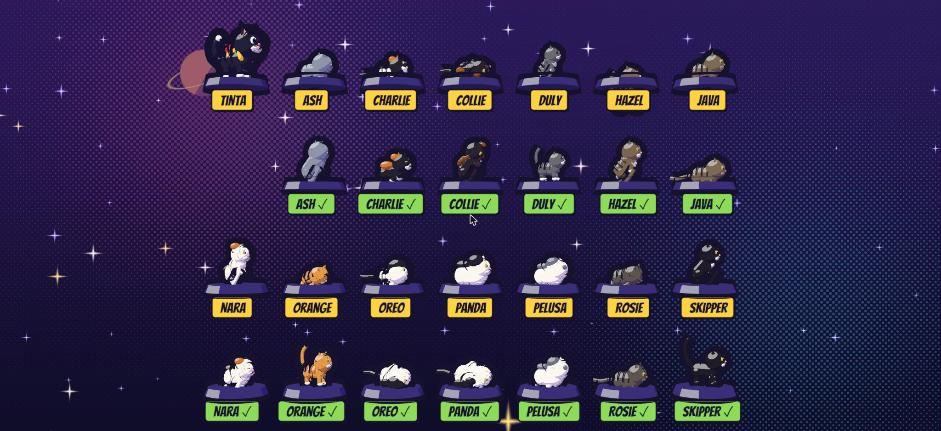
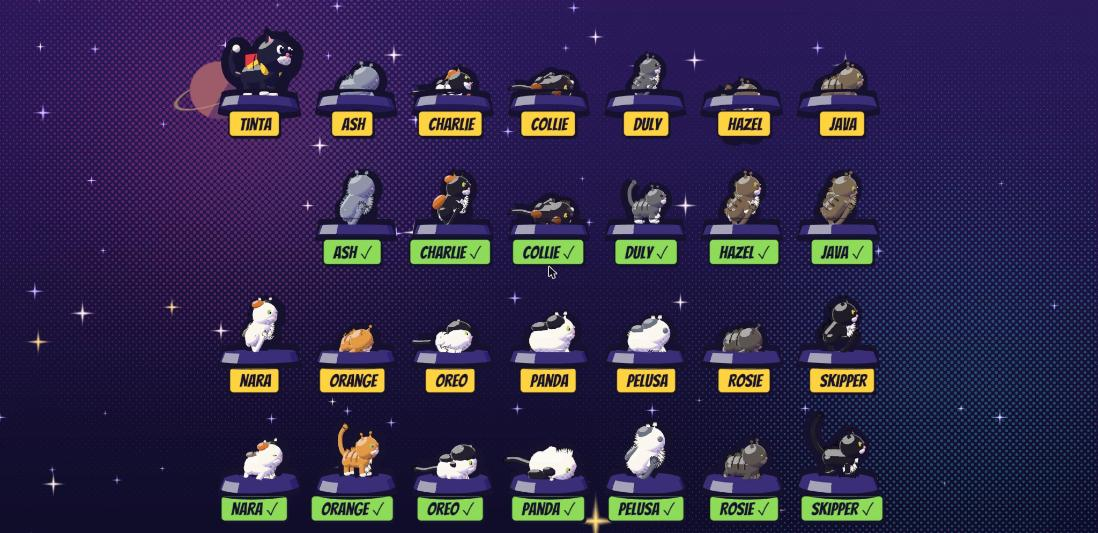
Cats: silhouette-only ink lines and fur tufts
- Outline hulls skip surface details and are pushed back from the camera, so crossings between
  parts no longer draw inner lines (cats and hero); irises keep a thin feature line
- Fur: soft ramp, rim light in the coat colour, jagged alpha-tested tuft cards on the silhouette
  (about 20, 30 for long-haired cats, half on the low preset)
- Docs and review page updated; hop selftest still passes

diff --git a/src/space/cats.js b/src/space/cats.js
@@ -1,5 +1,13 @@
 import * as THREE from 'three';
-import { comicMaterial as M, addOutlines } from './comic.js';
+import { comicMaterial, addOutlines } from './comic.js';
+
+// Fur materials: a short soft ramp and a rim light a little lighter than the coat.
+const M = (color) => comicMaterial(color, { soft: 0.14, rim: rimOf(color) });
+function rimOf(hex) {
+  const c = new THREE.Color(hex);
+  return '#' + c.lerp(new THREE.Color('#FFF6E5'), 0.55).getHexString();
+}
+const noLine = (mesh) => ((mesh.userData.outline = 0), mesh);
 
 // The 13 secret cats, modelled on Sebastian's own cats (likeness from coat, markings, eyes and size;
 // shapes stay simple and comic). His photos give only the looks; the motion follows real cat body
@@ -93,6 +101,94 @@ const TAILS = {
   hang: [[0, 0], [-0.3, 0.1], [-0.55, 0.05], [-0.75, -0.1]],
 };
 
+// --- Fur tufts ---------------------------------------------------------------------------------
+// Small alpha-tested cards with a jagged, clumped tuft drawn in white and tinted per coat,
+// placed on each part's side-view edge so the spikes break the silhouette.
+let tuftTexture = null;
+function getTuftTexture() {
+  if (tuftTexture) return tuftTexture;
+  const c = document.createElement('canvas');
+  c.width = c.height = 64;
+  const g = c.getContext('2d');
+  g.beginPath();
+  // A fan of 5 spikes rising from a rounded base.
+  const spikes = [[8, 30], [18, 6], [26, 26], [34, 2], [40, 24], [50, 8], [56, 30]];
+  g.moveTo(4, 60);
+  g.quadraticCurveTo(2, 40, spikes[0][0], spikes[0][1]);
+  for (let i = 1; i < spikes.length; i++) g.lineTo(spikes[i][0], spikes[i][1]);
+  g.quadraticCurveTo(62, 40, 60, 60);
+  g.closePath();
+  g.fillStyle = '#FFFFFF';
+  g.fill();
+  g.lineWidth = 4;
+  g.strokeStyle = '#16122E';
+  g.stroke();
+  tuftTexture = new THREE.CanvasTexture(c);
+  tuftTexture.colorSpace = THREE.SRGBColorSpace;
+  return tuftTexture;
+}
+const tuftMats = new Map();
+function tuftMat(hex) {
+  if (!tuftMats.has(hex)) {
+    const m = new THREE.MeshBasicMaterial({ map: getTuftTexture(), color: hex, alphaTest: 0.5, side: THREE.DoubleSide });
+    m.userData.noOutline = true;
+    tuftMats.set(hex, m);
+  }
+  return tuftMats.get(hex);
+}
+const tuftGeo = new THREE.PlaneGeometry(1, 1).translate(0, 0.35, 0); // base near the bottom edge
+
+// One tuft on the edge of a round part seen from the side: centre (cx, cy), radius r,
+// at `deg` degrees around it, spikes pointing outward. Cards sit in the part's z = 0 plane,
+// so the inner half hides inside the body and the spikes break the silhouette.
+function edgeTuft(parent, hex, cx, cy, r, deg, size, z = 0) {
+  const a = (deg * Math.PI) / 180;
+  const m = new THREE.Mesh(tuftGeo, tuftMat(hex));
+  m.position.set(cx + Math.cos(a) * r * 0.9, cy + Math.sin(a) * r * 0.9, z);
+  m.rotation.z = a - Math.PI / 2;
+  m.scale.set(size, size, 1);
+  m.userData.outline = 0;
+  parent.add(m);
+  return m;
+}
+
+// 20-40 tufts on the silhouette: cheek ruffs, chest bib, back and rump, ear tips, tail tip.
+// Long-haired cats (fluffy > 1.05) get more and bigger tufts; the low preset gets half.
+function addTufts({ spec, torso, head, tails, ears }) {
+  const long = (spec.fluffy ?? 1) > 1.05;
+  const keep = spec.low ? 2 : 1; // keep every n-th tuft
+  const big = long ? 1.3 : 1;
+  const fur = spec.fur;
+  const bib = spec.belly;
+  const s = 0.24 * big;
+  const headR = 0.33 * (spec.fluffy ?? 1);
+  const bodyW = (spec.chunky ? 1.15 : spec.slim ? 0.88 : 1) * (spec.fluffy ?? 1);
+  let i = 0;
+  const add = (...args) => (i++ % keep === 0 ? edgeTuft(...args) : null);
+  // Cheek ruff: lower back of the head, plus the jowl under the chin.
+  const cheek = long ? [195, 212, 229, 246, 263, 282] : [205, 228, 252, 276];
+  for (const d of cheek) add(head, d > 240 ? bib : fur, 0, 0, headR, d, s);
+  // Back of the head.
+  for (const d of long ? [150, 168] : [160]) add(head, fur, 0, 0, headR, d, s * 0.8);
+  // Chest bib (front-bottom of the chest sphere).
+  const chest = long ? [250, 268, 286, 304, 322] : [262, 290, 318];
+  for (const d of chest) add(torso, bib, 0.55, -0.06, 0.22 * bodyW, d, s * 0.95);
+  // Back ridge and rump (top and back of the trunk).
+  const back = long ? [70, 90, 110, 130, 150, 170] : [80, 105, 135, 160];
+  for (const [k, d] of back.entries()) add(torso, fur, 0.18 + (k % 2) * 0.08, 0, 0.27 * bodyW + 0.02, d, s * 0.8);
+  // Ear tips.
+  for (const ear of ears) add(ear, fur, 0, 0.06, 0.07, 90, s * 0.45);
+  // Tail tip on every tail shape, pointing along the tail.
+  const tipHex = spec.tail ?? fur;
+  for (const g of Object.values(tails)) {
+    const path = g.children[0].geometry.parameters.path;
+    const end = path.getPoint(1);
+    const tan = path.getTangent(1);
+    const deg = (Math.atan2(tan.y, tan.x) * 180) / Math.PI;
+    for (let k = 0; k < (long ? 3 : 2); k++) add(g, tipHex, end.x, end.y, 0.02, deg + (k - 0.5) * 40, s * 0.7, end.z);
+  }
+}
+
 export function makeSecretCat(spec) {
   const fur = M(spec.fur);
   const belly = M(spec.belly);
@@ -112,22 +208,22 @@ export function makeSecretCat(spec) {
   const trunk = capsule(0.27 * bodyW, 0.42, fur);
   trunk.rotation.z = Math.PI / 2;
   torso.add(put(trunk, 0.32, 0, 0, 1, 1, bodyW > 1 ? 1.1 : 1));
-  torso.add(put(sphere(0.24 * bodyW, belly), 0.55, -0.06, 0, 0.8, 0.9, 0.95)); // chest
+  torso.add(noLine(put(sphere(0.24 * bodyW, belly), 0.55, -0.06, 0, 0.8, 0.9, 0.95))); // chest
   if (spec.stripes) {
     for (const x of [0.12, 0.3, 0.48]) {
       const band = new THREE.Mesh(new THREE.TorusGeometry(0.27 * bodyW + 0.005, 0.03, 5, 16, Math.PI * 1.1), M(spec.stripes));
       band.rotation.y = Math.PI / 2;
       band.rotation.x = -Math.PI * 0.05;
-      torso.add(put(band, x, 0, 0));
+      torso.add(noLine(put(band, x, 0, 0)));
     }
   }
   for (const [part, x, y, z, r, c, sy] of spec.patches ?? []) {
     if (part !== 'body') continue;
-    torso.add(put(sphere(r, M(c), 10, 8), 0.32 + x, y * bodyW * 0.9, z * bodyW, 1.2, sy, 1));
+    torso.add(noLine(put(sphere(r, M(c), 10, 8), 0.32 + x, y * bodyW * 0.9, z * bodyW, 1.2, sy, 1)));
   }
 
   // Haunches: hidden inside the trunk in most poses, they round out the rump when sitting.
-  for (const z of [-0.13, 0.13]) torso.add(put(sphere(0.19 * bodyW, fur, 10, 8), 0.1, -0.06, z));
+  for (const z of [-0.13, 0.13]) torso.add(noLine(put(sphere(0.19 * bodyW, fur, 10, 8), 0.1, -0.06, z)));
 
   // Legs: shoulder/hip pivots inside the torso so they follow it.
   const leg = (x, z, front) => {
@@ -165,20 +261,23 @@ export function makeSecretCat(spec) {
   head.add(sphere(0.33 * fluffy, fur, 18, 12));
   for (const [part, x, y, z, r, c, sy] of spec.patches ?? []) {
     if (part !== 'head') continue;
-    head.add(put(sphere(r, M(c), 10, 8), x, y * 0.9, z, 1, sy, 1));
+    head.add(noLine(put(sphere(r, M(c), 10, 8), x, y * 0.9, z, 1, sy, 1)));
   }
   head.add(put(sphere(0.17, belly, 12, 8), 0.2, -0.1, 0, 0.8, 0.65, 1.2)); // muzzle
-  if (spec.chin) head.add(put(sphere(0.07, M(spec.chin), 8, 6), 0.27, -0.18, 0));
-  if (spec.blaze) head.add(put(sphere(0.07, belly, 8, 6), 0.27, 0.06, 0, 0.5, 1.8, 0.8)); // white stripe up the nose
-  head.add(put(sphere(0.045, M(spec.nose), 8, 6), 0.33, -0.03, 0));
+  if (spec.chin) head.add(noLine(put(sphere(0.07, M(spec.chin), 8, 6), 0.27, -0.18, 0)));
+  if (spec.blaze) head.add(noLine(put(sphere(0.07, belly, 8, 6), 0.27, 0.06, 0, 0.5, 1.8, 0.8))); // white stripe up the nose
+  head.add(noLine(put(sphere(0.045, M(spec.nose), 8, 6), 0.33, -0.03, 0)));
   const eyes = [];
   const ears = [];
   for (const z of [-0.12, 0.12]) {
     const eye = new THREE.Group();
     eye.position.set(0.25, 0.06, z);
-    eye.add(put(sphere(0.085, M(spec.eyes), 10, 8), 0, 0, 0, 0.55, 1, 1));
-    eye.add(put(sphere(0.06, M('#16122E'), 8, 6), 0.03, 0, 0, 0.5, 1, 0.35)); // vertical slit
-    eye.add(put(sphere(0.018, M('#FFFFFF'), 6, 4), 0.05, 0.035, 0));
+    // Eyes are a hand-picked feature line: a thin hull around the iris only.
+    const iris = put(sphere(0.085, M(spec.eyes), 10, 8), 0, 0, 0, 0.55, 1, 1);
+    iris.userData.outline = 0.5;
+    eye.add(iris);
+    eye.add(noLine(put(sphere(0.06, M('#16122E'), 8, 6), 0.03, 0, 0, 0.5, 1, 0.35))); // vertical slit
+    eye.add(noLine(put(sphere(0.018, M('#FFFFFF'), 6, 4), 0.05, 0.035, 0)));
     head.add(eye);
     eyes.push(eye);
     const ear = new THREE.Mesh(new THREE.ConeGeometry(0.12, 0.24, 4), z > 0 ? earMat(spec, 'L') : earMat(spec, 'R'));
@@ -188,7 +287,10 @@ export function makeSecretCat(spec) {
     ears.push(ear);
   }
 
-  addOutlines(root, 1.1);
+  addTufts({ spec, torso, head, tails, ears, fur, belly, tailMat, low: spec.low });
+
+  // Silhouette-only ink: hulls pushed back so crossings between parts disappear.
+  addOutlines(root, 1.1, { bias: 0.22 });
 
   const cat = { spec, root, rig, torso, legs, tails, head, eyes, ears, pose: null, anim: null, time: 0, found: false, place: null };
   setPose(cat, spec.idle);

diff --git a/src/space/comic.js b/src/space/comic.js
@@ -44,13 +44,17 @@ const comicFragment = /* glsl */ `
   uniform float uPixelRatio;
   uniform float uOpacity;
   uniform float uFlash;
+  uniform float uSoft;
+  uniform vec3 uRim;
+  uniform float uRimAmt;
   varying vec3 vN;
   varying vec3 vView;
   void main() {
     vec3 n = normalize(vN);
     if (!gl_FrontFacing) n = -n;
     float d = dot(n, uLight);
-    float lit = step(0.08, d);
+    // uSoft widens the band edge into a short ramp (fur); 0 keeps the hard comic step.
+    float lit = smoothstep(0.08 - uSoft, 0.08 + uSoft + 0.0001, d);
     vec3 col = mix(uShadow, uColor, lit);
     // Highlight band
     col = mix(col, mix(uColor, vec3(1.0), 0.35), step(0.86, d));
@@ -64,6 +68,8 @@ const comicFragment = /* glsl */ `
     // Ink rim on the dark side edge, so silhouettes stay crisp against space.
     float rim = 1.0 - abs(dot(n, normalize(vView)));
     col = mix(col, uInk, smoothstep(0.82, 0.95, rim) * (1.0 - lit) * 0.6);
+    // Rim light tinted to the coat on the lit side: reads as a soft, fluffy edge.
+    col = mix(col, uRim, smoothstep(0.55, 0.9, rim) * lit * uRimAmt);
     col = mix(col, vec3(1.0), uFlash);
     gl_FragColor = vec4(col, uOpacity);
     #include <colorspace_fragment>
@@ -73,11 +79,15 @@ const comicFragment = /* glsl */ `
 const outlineVertex = /* glsl */ `
   uniform float uOutline;
   uniform float uScale;
+  uniform float uBias;
   void main() {
     vec4 mv = modelViewMatrix * vec4(position, 1.0);
     vec3 n = normalize(normalMatrix * normal);
     // Push along the view-space normal, scaled by depth so the line width stays steady on screen.
     mv.xyz += n * uOutline * uScale * max(-mv.z, 1.0);
+    // Push the hull away from the camera: where it crosses another part of the same model it
+    // falls behind that part's surface, so only the outer silhouette keeps its line.
+    mv.z -= uBias;
     gl_Position = projectionMatrix * mv;
   }
 `;
@@ -95,7 +105,7 @@ const materialCache = new Map();
 // Comic material for one flat colour. `extra` mirrors the few MeshStandard options the
 // landmark builders pass: transparent/opacity, emissive (treated as "no shadow band").
 export function comicMaterial(color, extra = {}) {
-  const key = `${color}|${extra.transparent ? extra.opacity : ''}|${extra.emissive ? 'e' : ''}|${extra.side ?? ''}`;
+  const key = `${color}|${extra.transparent ? extra.opacity : ''}|${extra.emissive ? 'e' : ''}|${extra.side ?? ''}|${extra.soft ?? ''}|${extra.rim ?? ''}`;
   if (materialCache.has(key)) return materialCache.get(key);
   const base = new THREE.Color(color);
   const shadow = extra.emissive ? base.clone().multiplyScalar(0.92) : base.clone().multiply(SHADOW_TINT);
@@ -105,6 +115,9 @@ export function comicMaterial(color, extra = {}) {
       uShadow: { value: shadow },
       uOpacity: { value: extra.transparent ? extra.opacity ?? 0.4 : 1 },
       uFlash: { value: 0 },
+      uSoft: { value: extra.soft ?? 0 },
+      uRim: { value: new THREE.Color(extra.rim ?? '#FFFFFF') },
+      uRimAmt: { value: extra.rim ? 0.55 : 0 },
       uInk: shared.uInk,
       uLight: shared.uLight,
       uDot: shared.uDot,
@@ -122,13 +135,13 @@ export function comicMaterial(color, extra = {}) {
 }
 
 const outlineMaterials = new Map();
-function outlineMaterial(scale) {
-  const k = scale.toFixed(2);
+function outlineMaterial(scale, bias = 0) {
+  const k = `${scale.toFixed(2)}|${bias.toFixed(2)}`;
   if (!outlineMaterials.has(k)) {
     outlineMaterials.set(
       k,
       new THREE.ShaderMaterial({
-        uniforms: { uInk: shared.uInk, uOutline: shared.uOutline, uScale: { value: scale } },
+        uniforms: { uInk: shared.uInk, uOutline: shared.uOutline, uScale: { value: scale }, uBias: { value: bias } },
         vertexShader: outlineVertex,
         fragmentShader: outlineFragment,
         side: THREE.BackSide,
@@ -153,13 +166,16 @@ function hullGeometry(geo) {
 
 // Adds an ink outline mesh to every opaque mesh under `root`.
 // `scale` thickens (1.6) or thins (0.6) the line for hero vs background pieces.
-export function addOutlines(root, scale = 1) {
+// Options: `bias` pushes hulls back so inner crossings vanish (multi-part characters);
+// meshes with userData.outline === 0 get no hull, and userData.outline = k scales its width.
+export function addOutlines(root, scale = 1, { bias = 0 } = {}) {
   const meshes = [];
   root.traverse((o) => {
-    if (o.isMesh && !o.userData.isOutline && !o.material.userData?.noOutline) meshes.push(o);
+    if (o.isMesh && !o.userData.isOutline && !o.material.userData?.noOutline && o.userData.outline !== 0) meshes.push(o);
   });
   for (const mesh of meshes) {
-    const hull = new THREE.Mesh(hullGeometry(mesh.geometry), outlineMaterial(scale));
+    const k = mesh.userData.outline ?? 1;
+    const hull = new THREE.Mesh(hullGeometry(mesh.geometry), outlineMaterial(scale * k, bias));
     hull.userData.isOutline = true;
     hull.renderOrder = -1;
     mesh.add(hull);

diff --git a/docs/fable/review.html b/docs/fable/review.html
@@ -172,7 +172,7 @@ footer a { color: var(--yellow); }
 <div class="wrap">
 
 <header class="cover">
-  <span class="badge">Fable 5.2 review · pass 2 · 2026-11-11</span>
+  <span class="badge">Fable 5.2 review · pass 2.2 · 2026-11-11</span>
   <h1>Planets of Code</h1>
   <p class="lede">Sebastian's 3D portfolio, redesigned as a guided comic tour: a cat courier walks around small planets in space, one per project, and the visitor turns the page with Next. The list, resume and contact are one click away from the first screen.</p>
 </header>
@@ -214,7 +214,7 @@ footer a { color: var(--yellow); }
 
 <section class="panel" aria-labelledby="pass2">
   <h2 id="pass2">Pass 2: his cats, hops both ways, phone fixes</h2>
-  <figure><img src="shots/cats-lineup.jpg" alt="Model sheet: Tinta and the 13 secret cats on plinths, idle poses on the top rows and found poses marked with a check below" loading="lazy"><figcaption>The 13 secret cats, modelled on Sebastian's own cats: idle pose above, found pose (✓) below. Tinta top left for scale.</figcaption></figure>
+  <figure><img src="shots/cats-lineup.jpg" alt="Model sheet: Tinta and the 13 secret cats on plinths, idle poses on the top rows and found poses marked with a check below" loading="lazy"><figcaption>The 13 secret cats with fur tufts and silhouette-only lines: idle pose above, found end pose (✓) below. Tinta top left for scale.</figcaption></figure>
   <div class="grid" style="margin-top:16px">
     <div>
       <h3>Secret cats</h3>
@@ -222,6 +222,7 @@ footer a { color: var(--yellow); }
         <li>Likeness from coat, patches, stripes, blaze, eye colour and size</li>
         <li>Photos give only the looks; each cat hides in its idle pose, then reacts: caught (freeze or startle hop) → tail-up greeting → its own end pose</li>
         <li>Chaotic cats add a zoomies lap around the planet or a dazed wobble</li>
+        <li>Fur: jagged tufts on the silhouette, a soft ramp and a rim light in each coat's colour; ink only on the outer silhouette</li>
         <li>Toast names the cat: "Oreo found! 4 of 13 cats"</li>
         <li>Reduced motion: a calm slow blink instead; saved progress and a "Secret cats" list in the project dialog</li>
         <li>His photos stay private: never copied or published</li>

diff --git a/src/space/planets.js b/src/space/planets.js
@@ -158,7 +158,7 @@ export function buildPlanets({ scene, route, low }) {
     // Secret cats on the underside: easter eggs, never on the route.
     const hidden = [];
     for (const { id, angle } of p.cats ?? []) {
-      const cat = makeSecretCat(CATS.find((c) => c.id === id));
+      const cat = makeSecretCat({ ...CATS.find((c) => c.id === id), low }); // low preset: half the fur tufts
       cat.root.rotation.y = -0.5; // three-quarter view toward the camera
       cat.root.scale.setScalar(1.1);
       const holder = new THREE.Group();

diff --git a/src/space/hero.js b/src/space/hero.js
@@ -111,7 +111,7 @@ export function makeCat({ coat = 'tuxedo', gear = true, outline = 1.4 } = {}) {
     body.add(flame);
   }
 
-  addOutlines(root, outline);
+  addOutlines(root, outline, { bias: 0.25 });
 
   // Animation state, driven by game.js each frame.
   const anim = { walk: 0, phase: 0, squash: 0, air: 0 };

diff --git a/docs/fable/STATE.md b/docs/fable/STATE.md
@@ -25,6 +25,8 @@ Owner: Fable 5.2 (since 2026-11-10; Sebastian: "the portfolio is its own", Fable
 
 - 2026-11-11, phone "teleport" report: reproduced mobile conditions (375 × 812, touch, `?quality=low`, 15 fps stepping). The hop runs: 1.73 s in flight, at most 29 px per frame, hero about 22 px tall. Low preset, dt clamping, the Next button path and the camera were ruled out. Most likely cause on his phone: the browser reports `prefers-reduced-motion: reduce` (Android "Remove animations" or a battery saver), which correctly swaps the hop for a cut. Not confirmed on his device yet: ask him to open the live site with `?debug=1` after the next deploy. Added: an "Animations: full / reduced" toggle (cover and list dialog, saved as `p3d-motion`) that overrides the OS setting; a trailing camera during hops (hero travel on a phone 120 → 163 px); `?selftest=hop` (passes the flight, fails the cut with `&motion=reduce&assert=flight`).
 
+- 2026-11-11, fur and outlines: silhouette-only hulls with a depth push (no inner lines on cats or hero), soft ramp + coat rim light, jagged tuft cards on the silhouette. Checked on the lineup in a visible Chrome tab. Hop selftest still passes (1.73 s). Cost: 830 cat meshes in total incl. hulls on the low preset (168 tufts); desktop low preset 83 fps. Not yet measured on a real phone.
+
 ## Tried and failed (and why)
 
 - **Testing in the hidden browser pane with real time:** `requestAnimationFrame` barely runs while the pane is hidden, so waits showed stale frames. Fixed for testing with the dev-only `__game.advance(seconds)`, which steps the simulation and renders. Screenshots can still show the frame before the last render; take a second screenshot.
@@ -39,9 +41,12 @@ Owner: Fable 5.2 (since 2026-11-10; Sebastian: "the portfolio is its own", Fable
 
 - **Phone checks that only read `state.mode`:** they said "flight" while the user saw a teleport. Visual checks must measure on screen (hero pixel size, per-frame jump); `?selftest=hop` does that now.
 
+- **Tufts as camera-facing sprites:** they sat inside the head and showed as white "teeth" on the cheeks. Replaced with flat cards on each part's side-view edge, spikes outward.
+
 ## Not tried yet / next
 
 0. Cat reactions follow Sebastian's clarification (looks from photos only, dynamic caught → greeting → end pose; zoomies and dazed wobble for chaotic cats). Next: study the GIF references in a visible Chrome tab and tune the `STEPS` durations; add the trill sound with PLAN task 3.
+0b. Profile the cats on a real phone (`?debug=1` shows fps). If under 50 fps: merge each cat's static meshes and tufts into one geometry per part, or drop tufts on cats off screen.
 1. PLAN.md tasks 3–14 for Haiku/Sonnet (start with 3 or 6). Tasks 1–2 done 2026-11-10 by Haiku (old driving files, Rapier and Kenney models removed; README rewritten), checked by Fable: build passes, full tour runs with no console errors.
 2. Fable F1–F5: hero polish (blink, wave, crouch, dust), data planet layout on a real phone, hop polish, real-device performance on a mid-range Android, update the review page.
 3. Not checked yet: keyboard-only pass through the whole tour in a visible tab, screen reader announcements, real touch input on a phone, frame rate on a phone, the hero close-up image for the review page (the pane was too small).

diff --git a/docs/fable/ART-BIBLE.md b/docs/fable/ART-BIBLE.md
@@ -39,6 +39,11 @@ Modelled on Sebastian's cats from his photos (the photos stay in `D:\cats`; they
 
 Rules (updated 2026-11-11 from Sebastian's clarification): his photos give **only the looks**. Lying poses are for hiding (idle) at most. A found reaction is always caught → happy: a 0.3 s freeze (eyes wide, ears forward, head up) or a 0.45 s startle hop, then the **greeting** (1.1 s trot in place, tail straight up with a quivering tip, head tilt), the main "I'm happy" signal. Chaotic cats add **zoomies** (1.6 s sprint once around the planet, ears back, tail streaming) or a **dazed wobble** (1.4 s head circles, half-closed eyes). Never the arched "Halloween" back: that means fear. Belly up only as a relaxed end pose (trust). Under reduced motion every cat does a 0.8 s slow blink, then its end pose. Feedback: reaction + named toast ("Oreo found! 4 of 13 cats") + the list's "Secret cats" section; a trill sound is part of PLAN task 3. Real eye colours with slit pupils (the hero keeps comic white eyes, so he stays the lead).
 
+### Cat fur and lines (2026-11-11)
+
+- **Silhouette lines only.** Each silhouette part (body, head, muzzle, ears, legs, paws, tails) gets a hull; patches, stripes, chest, blaze, nose and pupils get none (`userData.outline = 0`). All cat and hero hulls are pushed 0.22–0.25 units away from the camera (`addOutlines(root, scale, { bias })`), so where two parts cross, the line hides behind the front part and only the outer silhouette is inked. The irises keep a thin feature line (`userData.outline = 0.5`). Chosen over one merged hull because the rig animates its parts; the depth push is the Guilty Gear Xrd "push inner backfaces away" idea applied per part.
+- **Fur.** Fur materials use a short soft ramp (`soft: 0.14`) and a rim light 55% toward paper in the coat's own colour. Jagged tuft cards (a five-spike clump with an ink edge, alpha-tested, no blending) sit on each part's side-view edge with the spikes pointing out: cheek ruff, back of the head, chest bib, back ridge and rump, ear tips, tail tip. Short-haired cats get about 20, long-haired cats (fluffy > 1.05: Ash, Pelusa) about 30 and 30% bigger; the low preset keeps every second tuft. Shell fur is not used; try it only after profiling on a real phone.
+
 ## 3. Palette
 
 UI tokens (checked with `palette-check`, all WCAG 2.1 AA pairs pass in light and dark, preview in `docs/fable/palette-preview.html`):
